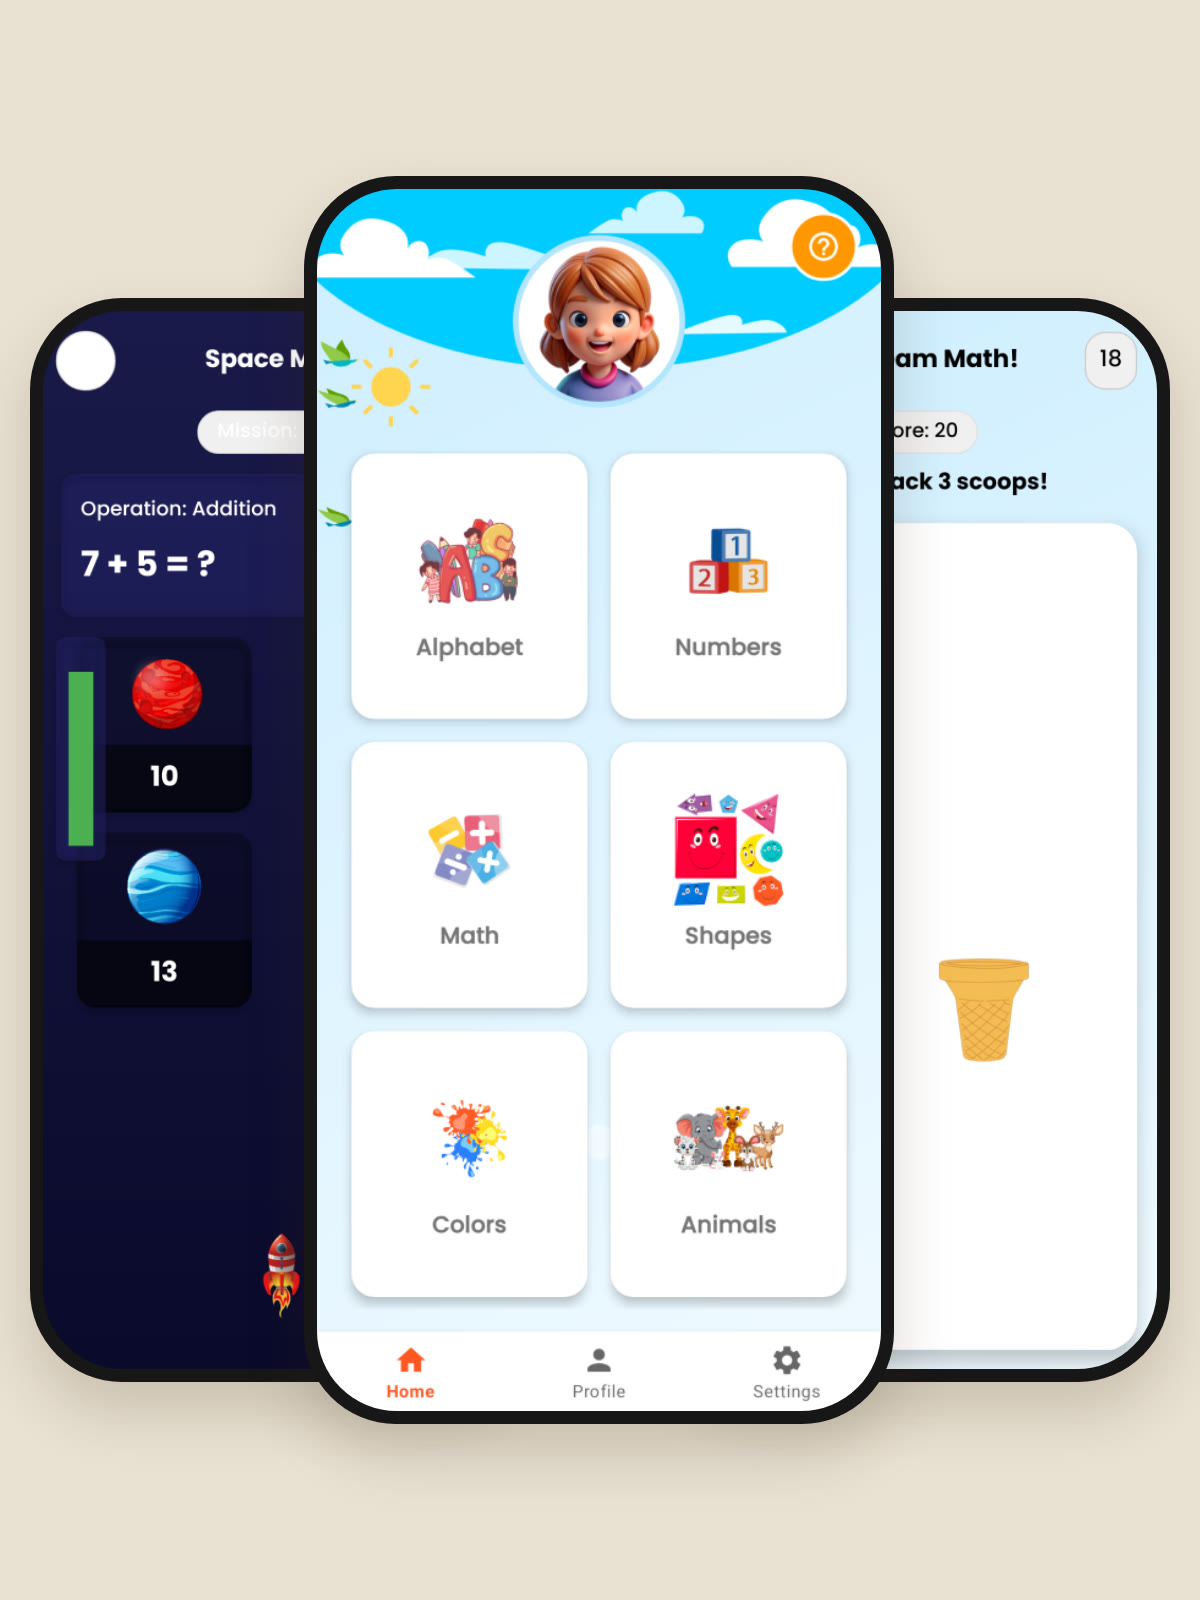
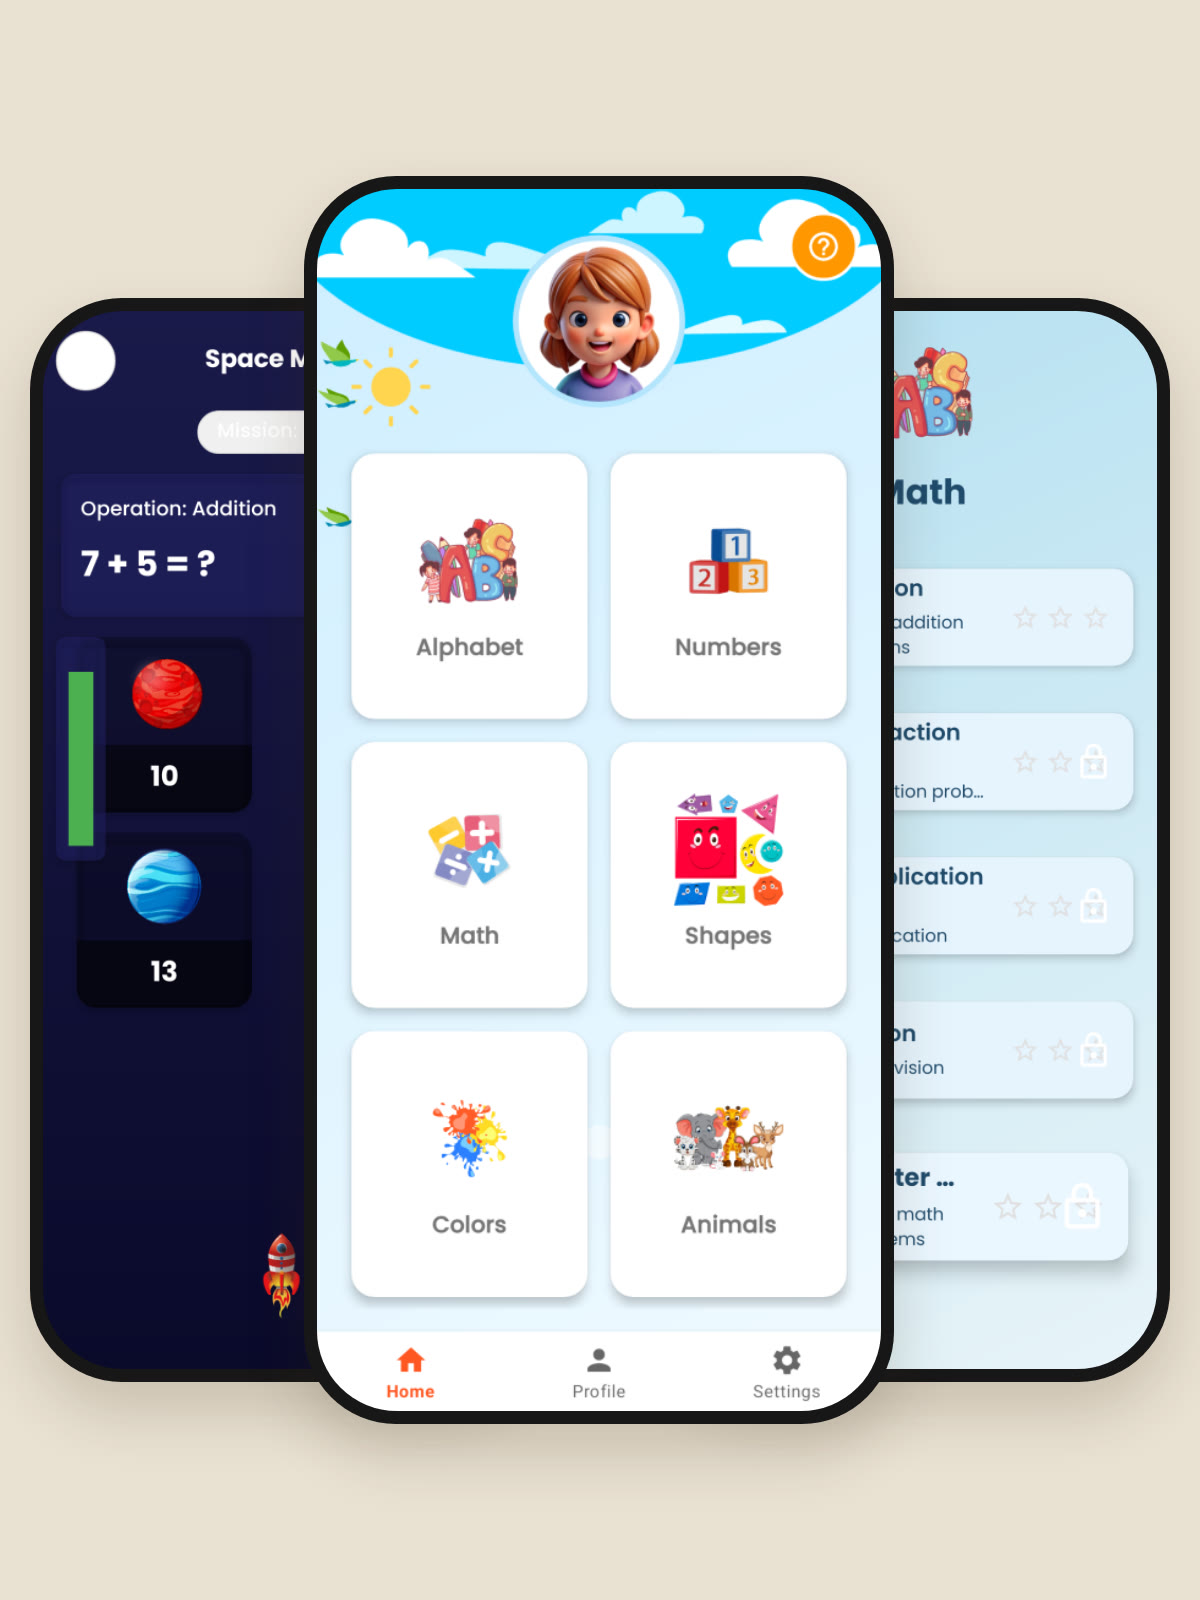
Footer arc: soft faded glow band instead of the solid planet fill; Kidzo mockup shows the Math stages screen (#154)
Claude-Session: https://claude.ai/code/session_01EG7HUUsZmEBRYkfLY8ALna

Changed region(s): [[0.74, 0.1875, 0.9558, 0.875], [0.8942, 0.1875, 0.9558, 0.25]]

diff --git a/index.html b/index.html
@@ -19,13 +19,13 @@
   <link rel="preconnect" href="https://fonts.googleapis.com" />
   <link rel="preconnect" href="https://fonts.gstatic.com" crossorigin />
   <link href="https://fonts.googleapis.com/css2?family=Cormorant+Garamond:ital,wght@0,500;0,600;0,700;1,500;1,600&family=Jost:wght@400;500;600;700&family=Ma+Shan+Zheng&display=swap" rel="stylesheet" />
-  <link rel="stylesheet" href="site-footer.css?v=20261118s" />
-  <link rel="stylesheet" href="site-motion.css?v=20261118s" />
-  <link rel="stylesheet" href="site-buttons.css?v=20261118s" />
-  <link rel="stylesheet" href="site-cursor.css?v=20261118s" />
-  <link rel="stylesheet" href="site-techstack.css?v=20261118s" />
-  <link rel="stylesheet" href="site-cta.css?v=20261118s" />
-  <link rel="stylesheet" href="site-showcase.css?v=20261118s" />
+  <link rel="stylesheet" href="site-footer.css?v=20261118t" />
+  <link rel="stylesheet" href="site-motion.css?v=20261118t" />
+  <link rel="stylesheet" href="site-buttons.css?v=20261118t" />
+  <link rel="stylesheet" href="site-cursor.css?v=20261118t" />
+  <link rel="stylesheet" href="site-techstack.css?v=20261118t" />
+  <link rel="stylesheet" href="site-cta.css?v=20261118t" />
+  <link rel="stylesheet" href="site-showcase.css?v=20261118t" />
   <style>
     /* ============ THEME TOKENS ============ */
     :root {
@@ -622,7 +622,7 @@
         <div class="pf-files n3">
           <a class="pf-file" href="#projects" data-project="fslames" aria-haspopup="dialog"><span class="pf-thumb"><img class="only-dark" src="media/fslames-mockup-dark.jpg" alt="" loading="lazy"><img class="only-light" src="media/fslames-mockup-light.jpg" alt="" loading="lazy"></span><strong>FSLAMES</strong><span class="pf-sub">Thesis · Flutter + ML</span></a>
           <a class="pf-file" href="#projects" data-project="leapyear" aria-haspopup="dialog"><span class="pf-thumb"><img src="media/leap-year-app.webp" alt="" loading="lazy"></span><strong>Leap Year</strong><span class="pf-sub">Kotlin</span></a>
-          <a class="pf-file" href="#projects" data-project="kidzo" aria-haspopup="dialog"><span class="pf-thumb"><img src="media/kidzo-mockup.jpg" alt="" loading="lazy" style="object-position: 50% 45%"></span><strong>Kidzo</strong><span class="pf-sub">Kotlin · Firebase</span></a>
+          <a class="pf-file" href="#projects" data-project="kidzo" aria-haspopup="dialog"><span class="pf-thumb"><img src="media/kidzo-mockup.jpg?v=2" alt="" loading="lazy" style="object-position: 50% 45%"></span><strong>Kidzo</strong><span class="pf-sub">Kotlin · Firebase</span></a>
           <a class="pf-file" hidden href="#projects" data-project="counter" aria-haspopup="dialog"><span class="pf-thumb"><img src="media/counter-app.webp" alt="" loading="lazy"></span><strong>Simple Counter</strong><span class="pf-sub">Kotlin</span></a>
           <a class="pf-file" hidden href="#projects" data-project="ueat" aria-haspopup="dialog"><span class="pf-thumb"><img src="media/ueat-mockup.jpg" alt="" loading="lazy" style="object-position: 50% 45%"></span><strong>U-Eat</strong><span class="pf-sub">Kotlin · Firebase</span></a>
         </div>
@@ -715,12 +715,12 @@
       <span><a href="index.html#contact">Contact</a> · <a href="https://linkedin.com/in/kimberly-d-yu">LinkedIn</a> · <a href="https://github.com/xiuhuazure">GitHub</a></span>
     </div></div>
   </footer>
-  <script src="site-footer.js?v=20261118s"></script>
-  <script src="site-motion.js?v=20261118s"></script>
-  <script src="site-buttons.js?v=20261118s"></script>
-  <script src="site-techstack.js?v=20261118s"></script>
-  <script src="site-cta.js?v=20261118s"></script>
-  <script src="site-showcase.js?v=20261118s"></script>
+  <script src="site-footer.js?v=20261118t"></script>
+  <script src="site-motion.js?v=20261118t"></script>
+  <script src="site-buttons.js?v=20261118t"></script>
+  <script src="site-techstack.js?v=20261118t"></script>
+  <script src="site-cta.js?v=20261118t"></script>
+  <script src="site-showcase.js?v=20261118t"></script>
 
   <script>
     // Mobile nav

diff --git a/about.html b/about.html
@@ -18,12 +18,12 @@
   <link rel="preconnect" href="https://fonts.googleapis.com" />
   <link rel="preconnect" href="https://fonts.gstatic.com" crossorigin />
   <link href="https://fonts.googleapis.com/css2?family=Cormorant+Garamond:ital,wght@0,500;0,600;0,700;1,500;1,600&family=Jost:wght@400;500;600;700&family=Ma+Shan+Zheng&display=swap" rel="stylesheet" />
-  <link rel="stylesheet" href="site-footer.css?v=20261118s" />
-  <link rel="stylesheet" href="site-motion.css?v=20261118s" />
-  <link rel="stylesheet" href="site-buttons.css?v=20261118s" />
-  <link rel="stylesheet" href="site-cursor.css?v=20261118s" />
-  <link rel="stylesheet" href="site-showcase.css?v=20261118s" />
-  <link rel="stylesheet" href="site-certs.css?v=20261118s" />
+  <link rel="stylesheet" href="site-footer.css?v=20261118t" />
+  <link rel="stylesheet" href="site-motion.css?v=20261118t" />
+  <link rel="stylesheet" href="site-buttons.css?v=20261118t" />
+  <link rel="stylesheet" href="site-cursor.css?v=20261118t" />
+  <link rel="stylesheet" href="site-showcase.css?v=20261118t" />
+  <link rel="stylesheet" href="site-certs.css?v=20261118t" />
   <style>
     :root {
       --ink: #0c0f12; --ink-2: #12171c; --surface: #171d23; --surface-2: #1c242b;
@@ -533,11 +533,11 @@
       <span><a href="index.html#contact">Contact</a> · <a href="https://linkedin.com/in/kimberly-d-yu">LinkedIn</a> · <a href="https://github.com/xiuhuazure">GitHub</a></span>
     </div></div>
   </footer>
-  <script src="site-footer.js?v=20261118s"></script>
-  <script src="site-motion.js?v=20261118s"></script>
-  <script src="site-buttons.js?v=20261118s"></script>
-  <script src="site-showcase.js?v=20261118s"></script>
-  <script src="site-certs.js?v=20261118s"></script>
+  <script src="site-footer.js?v=20261118t"></script>
+  <script src="site-motion.js?v=20261118t"></script>
+  <script src="site-buttons.js?v=20261118t"></script>
+  <script src="site-showcase.js?v=20261118t"></script>
+  <script src="site-certs.js?v=20261118t"></script>
 
   <script>
     const toggle = document.getElementById('navToggle');

diff --git a/site-motion.css b/site-motion.css
@@ -265,3 +265,18 @@ html body .vf .vf-links, html body .vf .vf-bar { background: rgba(18, 23, 28, 0.
 html body .vf .vf-globe ellipse[fill^="url"] { opacity: 0.7; }
 html body .vf .vf-globe svg { -webkit-mask-image: linear-gradient(to bottom, #000 62%, transparent 100%); mask-image: linear-gradient(to bottom, #000 62%, transparent 100%); }
 @media (max-width: 640px) { html body .vf .vf-globe svg { -webkit-mask-image: linear-gradient(to bottom, #000 45%, transparent 73%); mask-image: linear-gradient(to bottom, #000 45%, transparent 73%); } }
+
+/* Footer arc: no solid "planet" fill under the line. A soft band of light sits behind the arc
+   instead, faded on all four edges so it has no hard shape. */
+html body .vf .vf-globe ellipse[fill^="url"] { opacity: 0 !important; }
+html body .vf .vf-globe::after {
+  content: ""; position: absolute; left: 0; right: 0; top: 34%; height: 58%; z-index: 0; pointer-events: none;
+  background: linear-gradient(to bottom, rgba(212, 175, 98, 0) 0%, rgba(212, 175, 98, 0.16) 30%, rgba(200, 80, 58, 0.08) 65%, rgba(212, 175, 98, 0) 100%);
+  -webkit-mask-image: linear-gradient(to right, transparent 0%, #000 22%, #000 78%, transparent 100%);
+  mask-image: linear-gradient(to right, transparent 0%, #000 22%, #000 78%, transparent 100%);
+}
+:root[data-theme="light"] body .vf .vf-globe::after {
+  background: linear-gradient(to bottom, rgba(226, 184, 92, 0) 0%, rgba(226, 184, 92, 0.22) 30%, rgba(226, 184, 92, 0.1) 65%, rgba(226, 184, 92, 0) 100%);
+}
+html body .vf .vf-globe svg { position: relative; z-index: 1; }
+@media (max-width: 640px) { html body .vf .vf-globe::after { top: 52%; height: 48%; } }

diff --git a/barangayone.html b/barangayone.html
@@ -18,10 +18,10 @@
   <link rel="preconnect" href="https://fonts.googleapis.com" />
   <link rel="preconnect" href="https://fonts.gstatic.com" crossorigin />
   <link href="https://fonts.googleapis.com/css2?family=Cormorant+Garamond:ital,wght@0,500;0,600;0,700;1,500;1,600&family=Jost:wght@400;500;600;700&family=Ma+Shan+Zheng&display=swap" rel="stylesheet" />
-  <link rel="stylesheet" href="site-footer.css?v=20261118s" />
-  <link rel="stylesheet" href="site-motion.css?v=20261118s" />
-  <link rel="stylesheet" href="site-buttons.css?v=20261118s" />
-  <link rel="stylesheet" href="site-cursor.css?v=20261118s" />
+  <link rel="stylesheet" href="site-footer.css?v=20261118t" />
+  <link rel="stylesheet" href="site-motion.css?v=20261118t" />
+  <link rel="stylesheet" href="site-buttons.css?v=20261118t" />
+  <link rel="stylesheet" href="site-cursor.css?v=20261118t" />
   <style>
     :root {
       --ink: #0c0f12; --ink-2: #12171c; --surface: #171d23; --surface-2: #1c242b;
@@ -502,9 +502,9 @@
       <span><a href="index.html#contact">Contact</a> · <a href="https://linkedin.com/in/kimberly-d-yu">LinkedIn</a> · <a href="https://github.com/xiuhuazure">GitHub</a></span>
     </div></div>
   </footer>
-  <script src="site-footer.js?v=20261118s"></script>
-  <script src="site-motion.js?v=20261118s"></script>
-  <script src="site-buttons.js?v=20261118s"></script>
+  <script src="site-footer.js?v=20261118t"></script>
+  <script src="site-motion.js?v=20261118t"></script>
+  <script src="site-buttons.js?v=20261118t"></script>
 
   <script>
     document.querySelectorAll('.deliv-media video').forEach(v => {

diff --git a/case-study.html b/case-study.html
@@ -18,10 +18,10 @@
   <link rel="preconnect" href="https://fonts.googleapis.com" />
   <link rel="preconnect" href="https://fonts.gstatic.com" crossorigin />
   <link href="https://fonts.googleapis.com/css2?family=Cormorant+Garamond:ital,wght@0,500;0,600;0,700;1,500;1,600&family=Jost:wght@400;500;600;700&family=Ma+Shan+Zheng&display=swap" rel="stylesheet" />
-  <link rel="stylesheet" href="site-footer.css?v=20261118s" />
-  <link rel="stylesheet" href="site-motion.css?v=20261118s" />
-  <link rel="stylesheet" href="site-buttons.css?v=20261118s" />
-  <link rel="stylesheet" href="site-cursor.css?v=20261118s" />
+  <link rel="stylesheet" href="site-footer.css?v=20261118t" />
+  <link rel="stylesheet" href="site-motion.css?v=20261118t" />
+  <link rel="stylesheet" href="site-buttons.css?v=20261118t" />
+  <link rel="stylesheet" href="site-cursor.css?v=20261118t" />
   <style>
     :root {
       --ink: #0c0f12; --ink-2: #12171c; --surface: #171d23; --surface-2: #1c242b;
@@ -463,9 +463,9 @@
       <span><a href="index.html#contact">Contact</a> · <a href="https://linkedin.com/in/kimberly-d-yu">LinkedIn</a> · <a href="https://github.com/xiuhuazure">GitHub</a></span>
     </div></div>
   </footer>
-  <script src="site-footer.js?v=20261118s"></script>
-  <script src="site-motion.js?v=20261118s"></script>
-  <script src="site-buttons.js?v=20261118s"></script>
+  <script src="site-footer.js?v=20261118t"></script>
+  <script src="site-motion.js?v=20261118t"></script>
+  <script src="site-buttons.js?v=20261118t"></script>
 
   <script>
     document.querySelectorAll('.deliv-media video').forEach(v => {

diff --git a/site-showcase.js b/site-showcase.js
@@ -95,7 +95,7 @@
       title: 'Kidzo: Learning games for kids', date: '2025 · School project · Group project',
       tech: ['Kotlin', 'Android Studio', 'Firebase'],
       desc: 'An Android learning app for young kids: 25 mini-games for letters, numbers, math, shapes, colors and animals, with levels, stars and a progress page. I built 12 of the games, including the memory cards, Ice Cream Math, Grocery Store, Spelling and the sorting games.',
-      media: { img: 'media/kidzo-mockup.jpg', alt: 'Kidzo app screens: Space Math, the home screen and Ice Cream Math' },
+      media: { img: 'media/kidzo-mockup.jpg?v=2', alt: 'Kidzo app screens: Space Math, the home screen and Ice Cream Math' },
       links: []
     },
     'ueat': { tall: true,

diff --git a/README.md b/README.md
@@ -42,7 +42,7 @@ an entry to `PROJECTS` in `site-showcase.js` and a `.pf-card` with a matching `d
 
 ### Cache-busting
 
-The shared `site-*.css` / `site-*.js` links carry a version (`?v=20261118s`). When you change one of those
+The shared `site-*.css` / `site-*.js` links carry a version (`?v=20261118t`). When you change one of those
 files, bump the version on every page so visitors' browsers fetch the new file instead of a saved old copy.
 
 ### Certifications & badges (About page)
